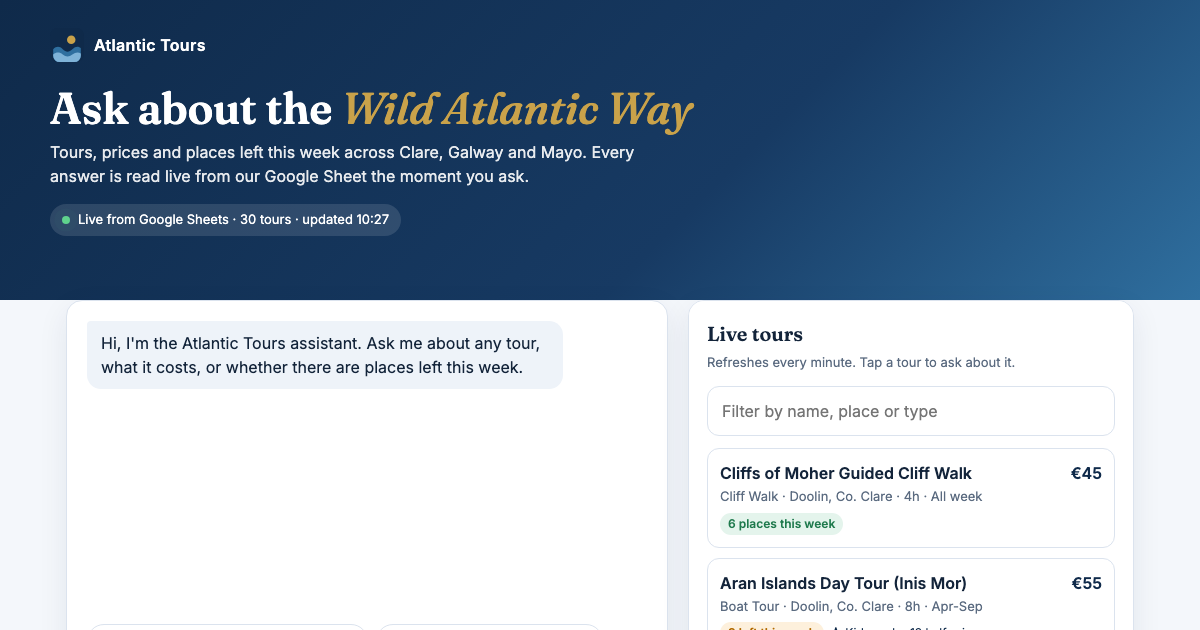
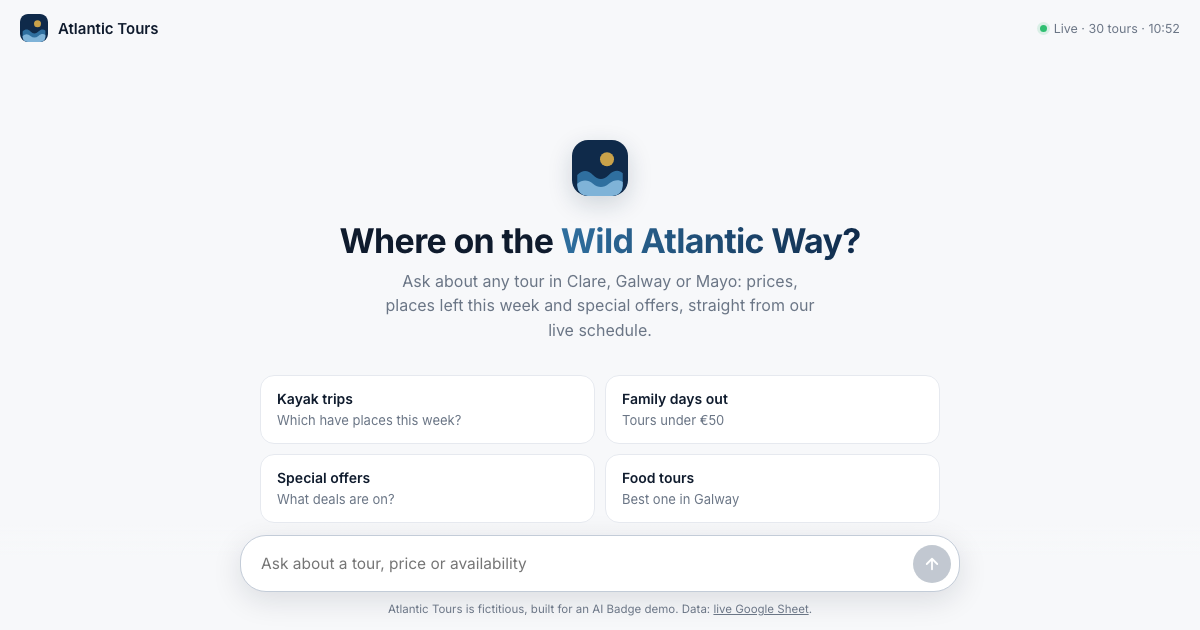
Redesign: full-height chat-only UI, suggestion cards, pill composer, formatted replies

diff --git a/index.html b/index.html
@@ -2,9 +2,10 @@
 <html lang="en">
 <head>
 <meta charset="utf-8">
-<meta name="viewport" content="width=device-width, initial-scale=1">
+<meta name="viewport" content="width=device-width, initial-scale=1, viewport-fit=cover">
 <title>Atlantic Tours Assistant</title>
 <meta name="description" content="Ask about tours along Ireland's Wild Atlantic Way. Answers come live from the Atlantic Tours Google Sheet.">
+<meta name="theme-color" content="#f7f8fa">
 <meta property="og:type" content="website">
 <meta property="og:title" content="Atlantic Tours Assistant">
 <meta property="og:description" content="A chatbot with live access to the Atlantic Tours Google Sheet: prices, availability and offers along Ireland's west coast.">
@@ -17,124 +18,153 @@
 <link rel="icon" href="icon.svg" type="image/svg+xml">
 <link rel="apple-touch-icon" href="icon-180.png">
 <link rel="preconnect" href="https://fonts.googleapis.com">
-<link href="https://fonts.googleapis.com/css2?family=Fraunces:ital,opsz,wght@0,9..144,600;1,9..144,500&family=Inter:wght@400;500;600&display=swap" rel="stylesheet">
+<link href="https://fonts.googleapis.com/css2?family=Inter:wght@400;500;600;700&display=swap" rel="stylesheet">
 <style>
 :root{
-  --navy:#0f2a4a; --navy-2:#173a63; --sea:#2f6f9f; --ink:#13243a; --muted:#5b6b80;
-  --bg:#f4f7fb; --card:#ffffff; --line:#dbe3ee; --gold:#c9a24a;
-  --ok:#1f7a4d; --low:#b26a00; --full:#b3261e;
+  --bg:#f7f8fa; --surface:#ffffff; --ink:#0f1b2d; --muted:#6b7686; --line:#e6e9ef;
+  --navy:#0f2a4a; --sea:#2f6f9f; --gold:#c9a24a; --user:#0f2a4a;
 }
 *{box-sizing:border-box}
-html,body{margin:0}
-body{font-family:Inter,system-ui,sans-serif;color:var(--ink);background:var(--bg);line-height:1.5}
-header{background:linear-gradient(135deg,var(--navy),var(--navy-2) 60%,var(--sea));color:#fff;padding:28px 16px 64px}
-.wrap{max-width:1100px;margin:0 auto}
-.brand{display:flex;align-items:center;gap:10px;font-weight:600;letter-spacing:.02em}
-.brand img{width:34px;height:34px}
-h1{font-family:Fraunces,Georgia,serif;font-weight:600;font-size:clamp(28px,5vw,44px);line-height:1.1;margin:22px 0 8px}
-h1 em{color:var(--gold);font-weight:500}
-.lede{max-width:620px;opacity:.9;margin:0}
-.live{display:inline-flex;align-items:center;gap:8px;margin-top:16px;padding:6px 12px;border-radius:999px;background:rgba(255,255,255,.12);font-size:13px}
-.dot{width:8px;height:8px;border-radius:50%;background:#5fd38d;box-shadow:0 0 0 0 rgba(95,211,141,.7);animation:pulse 2s infinite}
-.dot.err{background:#ff8a80;animation:none}
-@keyframes pulse{70%{box-shadow:0 0 0 8px rgba(95,211,141,0)}100%{box-shadow:0 0 0 0 rgba(95,211,141,0)}}
-main{margin-top:-40px;padding:0 16px 40px}
-.grid{display:grid;grid-template-columns:minmax(0,1.35fr) minmax(0,1fr);gap:20px}
-@media (max-width:860px){.grid{grid-template-columns:1fr}}
-.panel{background:var(--card);border:1px solid var(--line);border-radius:16px;box-shadow:0 10px 30px rgba(15,42,74,.08)}
-.chat{display:flex;flex-direction:column;height:min(640px,78vh)}
-.log{flex:1;overflow-y:auto;padding:20px;display:flex;flex-direction:column;gap:12px}
-.msg{max-width:85%;padding:10px 14px;border-radius:14px;white-space:pre-wrap;word-wrap:break-word}
-.bot{background:#eef3f9;border-top-left-radius:4px;align-self:flex-start}
-.me{background:var(--navy);color:#fff;border-top-right-radius:4px;align-self:flex-end}
-.typing{color:var(--muted);font-style:italic}
-.chips{display:flex;flex-wrap:wrap;gap:8px;padding:0 20px 12px}
-.chip{border:1px solid var(--line);background:#fff;color:var(--navy);border-radius:999px;padding:6px 12px;font:inherit;font-size:13px;cursor:pointer}
-.chip:hover{border-color:var(--sea)}
-form{display:flex;gap:10px;padding:14px;border-top:1px solid var(--line)}
-input{flex:1;min-width:0;font:inherit;padding:12px 14px;border:1px solid var(--line);border-radius:12px;outline:none}
-input:focus{border-color:var(--sea);box-shadow:0 0 0 3px rgba(47,111,159,.15)}
-button.send{font:inherit;font-weight:600;background:var(--navy);color:#fff;border:0;border-radius:12px;padding:0 18px;cursor:pointer}
-button.send:disabled{opacity:.5;cursor:default}
-.tours{padding:18px 18px 8px;max-height:min(640px,78vh);overflow-y:auto}
-.tours h2{font-family:Fraunces,Georgia,serif;font-size:20px;margin:0 0 4px}
-.sub{color:var(--muted);font-size:13px;margin:0 0 14px}
-.filter{width:100%;margin-bottom:12px}
-.tour{border:1px solid var(--line);border-radius:12px;padding:12px;margin-bottom:10px;cursor:pointer;transition:border-color .15s}
-.tour:hover{border-color:var(--sea)}
-.t-top{display:flex;justify-content:space-between;gap:10px;align-items:baseline}
-.t-name{font-weight:600}
-.t-price{font-weight:600;color:var(--navy);white-space:nowrap}
-.t-meta{color:var(--muted);font-size:13px;margin-top:2px}
-.badge{display:inline-block;font-size:12px;font-weight:600;padding:2px 8px;border-radius:999px;margin-top:6px}
-.ok{background:#e4f4ec;color:var(--ok)} .low{background:#fdf0dc;color:var(--low)} .full{background:#fbe4e2;color:var(--full)}
-.offer{font-size:12px;color:var(--navy);margin-left:6px}
-footer{text-align:center;color:var(--muted);font-size:13px;padding:0 16px 30px}
-footer a{color:var(--sea)}
+html,body{margin:0;height:100%}
+body{font-family:Inter,system-ui,-apple-system,sans-serif;color:var(--ink);background:var(--bg);
+  -webkit-font-smoothing:antialiased;display:flex;flex-direction:column;height:100dvh}
+
+/* top bar */
+.top{position:sticky;top:0;z-index:5;display:flex;align-items:center;justify-content:space-between;
+  padding:14px 20px;background:rgba(247,248,250,.8);backdrop-filter:blur(14px);-webkit-backdrop-filter:blur(14px)}
+.brand{display:flex;align-items:center;gap:10px;font-weight:600;font-size:15px}
+.brand img{width:28px;height:28px;border-radius:8px}
+.live{display:flex;align-items:center;gap:7px;font-size:12.5px;color:var(--muted)}
+.dot{width:7px;height:7px;border-radius:50%;background:#2fbf71;box-shadow:0 0 0 3px rgba(47,191,113,.15)}
+.dot.err{background:#e5484d;box-shadow:0 0 0 3px rgba(229,72,77,.15)}
+.new{border:1px solid var(--line);background:var(--surface);color:var(--ink);font:inherit;font-size:13px;
+  padding:7px 12px;border-radius:999px;cursor:pointer;margin-left:12px}
+.new:hover{border-color:#cfd5de}
+.right{display:flex;align-items:center}
+
+/* conversation */
+.scroll{flex:1;overflow-y:auto;scroll-behavior:smooth}
+.col{max-width:720px;margin:0 auto;padding:8px 20px 24px}
+
+.hello{padding:12vh 0 0;text-align:center;animation:rise .5s ease both}
+.hello img{width:56px;height:56px;border-radius:16px;box-shadow:0 8px 24px rgba(15,42,74,.18)}
+.hello h1{font-size:clamp(26px,4.5vw,34px);letter-spacing:-.02em;margin:20px 0 8px;font-weight:700}
+.hello h1 span{background:linear-gradient(90deg,var(--sea),var(--navy));-webkit-background-clip:text;background-clip:text;color:transparent}
+.hello p{color:var(--muted);margin:0 auto;max-width:440px;line-height:1.55}
+.cards{display:grid;grid-template-columns:1fr 1fr;gap:10px;margin:32px 0 0;text-align:left}
+@media (max-width:560px){.cards{grid-template-columns:1fr;margin-top:24px}.hello{padding-top:5vh}}
+.card{background:var(--surface);border:1px solid var(--line);border-radius:14px;padding:14px 16px;cursor:pointer;
+  font:inherit;text-align:left;color:var(--ink);transition:border-color .15s,transform .15s,box-shadow .15s}
+.card:hover{border-color:#cfd5de;transform:translateY(-1px);box-shadow:0 6px 18px rgba(15,27,45,.06)}
+.card b{display:block;font-size:14px;font-weight:600;margin-bottom:2px}
+.card small{color:var(--muted);font-size:13px}
+
+.row{display:flex;gap:12px;margin:22px 0;animation:rise .25s ease both}
+.row.me{justify-content:flex-end}
+.av{flex:0 0 30px;height:30px;border-radius:9px;overflow:hidden;margin-top:2px}
+.av img{width:100%;height:100%}
+.bubble{line-height:1.6;font-size:15.5px;word-wrap:break-word;min-width:0}
+.me .bubble{background:var(--user);color:#fff;padding:10px 16px;border-radius:20px 20px 6px 20px;max-width:80%;white-space:pre-wrap}
+.bot .bubble{padding-top:4px;flex:1}
+.bot .bubble p{margin:0 0 10px} .bot .bubble p:last-child{margin:0}
+.bot .bubble ul{margin:6px 0 10px;padding-left:20px} .bot .bubble li{margin:3px 0}
+.dots{display:inline-flex;gap:5px;padding:10px 0}
+.dots i{width:7px;height:7px;border-radius:50%;background:#aab3c0;animation:blink 1.2s infinite}
+.dots i:nth-child(2){animation-delay:.15s} .dots i:nth-child(3){animation-delay:.3s}
+@keyframes blink{0%,80%,100%{opacity:.3;transform:translateY(0)}40%{opacity:1;transform:translateY(-3px)}}
+@keyframes rise{from{opacity:0;transform:translateY(8px)}to{opacity:1;transform:none}}
+
+/* composer */
+.dock{padding:10px 20px calc(14px + env(safe-area-inset-bottom));background:linear-gradient(to top,var(--bg) 70%,transparent)}
+form{max-width:720px;margin:0 auto;display:flex;align-items:flex-end;gap:8px;background:var(--surface);
+  border:1px solid var(--line);border-radius:26px;padding:8px 8px 8px 20px;box-shadow:0 8px 30px rgba(15,27,45,.08);transition:border-color .15s,box-shadow .15s}
+form:focus-within{border-color:#c3ccd8;box-shadow:0 8px 30px rgba(15,27,45,.12)}
+textarea{flex:1;border:0;outline:0;resize:none;font:inherit;font-size:15.5px;line-height:1.5;padding:8px 0;max-height:160px;background:transparent;color:var(--ink)}
+.send{flex:0 0 38px;height:38px;border-radius:50%;border:0;background:var(--navy);color:#fff;cursor:pointer;display:grid;place-items:center;transition:opacity .15s,transform .15s}
+.send:hover{transform:scale(1.05)}
+.send:disabled{opacity:.25;cursor:default;transform:none}
+.fine{text-align:center;color:var(--muted);font-size:11.5px;margin:10px 0 0}
+.fine a{color:inherit}
 </style>
 </head>
 <body>
-<header>
-  <div class="wrap">
-    <div class="brand"><img src="icon.svg" alt="">Atlantic Tours</div>
-    <h1>Ask about the <em>Wild Atlantic Way</em></h1>
-    <p class="lede">Tours, prices and places left this week across Clare, Galway and Mayo. Every answer is read live from our Google Sheet the moment you ask.</p>
-    <div class="live"><span class="dot" id="dot"></span><span id="status">Connecting to the live sheet...</span></div>
+<header class="top">
+  <div class="brand"><img src="icon.svg" alt="">Atlantic Tours</div>
+  <div class="right">
+    <div class="live" title="Answers are read from the Google Sheet each time you ask"><span class="dot" id="dot"></span><span id="status">Connecting...</span></div>
+    <button class="new" id="reset" hidden>New chat</button>
   </div>
 </header>
 
-<main class="wrap">
-  <div class="grid">
-    <section class="panel chat" aria-label="Chat">
-      <div class="log" id="log" aria-live="polite"></div>
-      <div class="chips" id="chips">
-        <button class="chip">Which kayak trips have places this week?</button>
-        <button class="chip">Family-friendly tours under €50?</button>
-        <button class="chip">What special offers are on?</button>
-        <button class="chip">Best food tour in Galway?</button>
+<div class="scroll" id="scroll">
+  <div class="col" id="col">
+    <section class="hello" id="hello">
+      <img src="icon.svg" alt="">
+      <h1>Where on the <span>Wild Atlantic Way?</span></h1>
+      <p>Ask about any tour in Clare, Galway or Mayo: prices, places left this week and special offers, straight from our live schedule.</p>
+      <div class="cards">
+        <button class="card" data-q="Which kayak trips have places this week?"><b>Kayak trips</b><small>Which have places this week?</small></button>
+        <button class="card" data-q="What family-friendly tours are under €50?"><b>Family days out</b><small>Tours under €50</small></button>
+        <button class="card" data-q="What special offers are on right now?"><b>Special offers</b><small>What deals are on?</small></button>
+        <button class="card" data-q="What's the best food tour in Galway?"><b>Food tours</b><small>Best one in Galway</small></button>
       </div>
-      <form id="form">
-        <input id="q" autocomplete="off" placeholder="Ask about a tour, price or availability..." aria-label="Your question">
-        <button class="send" id="send">Send</button>
-      </form>
     </section>
-
-    <aside class="panel tours" aria-label="Live tours">
-      <h2>Live tours</h2>
-      <p class="sub" id="toursub">Loading from Google Sheets...</p>
-      <input class="filter" id="filter" placeholder="Filter by name, place or type">
-      <div id="list"></div>
-    </aside>
   </div>
-</main>
+</div>
 
-<footer>Atlantic Tours is a fictitious tour operator for an AI Badge demo. Data: <a href="https://docs.google.com/spreadsheets/d/1balBGf8QhZ5dc-RCCAPt2kcrcf6m_YRh0HL_r8bBtJw/edit" target="_blank" rel="noopener">the live Google Sheet</a>.</footer>
+<div class="dock">
+  <form id="form">
+    <textarea id="q" rows="1" placeholder="Ask about a tour, price or availability" aria-label="Message"></textarea>
+    <button class="send" id="send" aria-label="Send" disabled>
+      <svg width="18" height="18" viewBox="0 0 24 24" fill="none" stroke="currentColor" stroke-width="2.4" stroke-linecap="round" stroke-linejoin="round"><path d="M12 19V5M5 12l7-7 7 7"/></svg>
+    </button>
+  </form>
+  <p class="fine">Atlantic Tours is fictitious, built for an AI Badge demo. Data: <a href="https://docs.google.com/spreadsheets/d/1balBGf8QhZ5dc-RCCAPt2kcrcf6m_YRh0HL_r8bBtJw/edit" target="_blank" rel="noopener">live Google Sheet</a>.</p>
+</div>
 
 <script>
 const API = "https://atlantic-tours-bot.victordelrosal.workers.dev";
-const log = document.getElementById("log"), form = document.getElementById("form"),
-      q = document.getElementById("q"), send = document.getElementById("send");
-const history = [];
-let tours = [];
+const $ = id => document.getElementById(id);
+const col = $("col"), scroll = $("scroll"), q = $("q"), send = $("send"), hello = $("hello");
+let history = [], busy = false;
 
-function add(role, text, cls) {
-  const d = document.createElement("div");
-  d.className = "msg " + (role === "user" ? "me" : "bot") + (cls ? " " + cls : "");
-  d.textContent = text;
-  log.appendChild(d);
-  log.scrollTop = log.scrollHeight;
-  return d;
+function esc(s) { return s.replace(/[&<>"]/g, c => ({ "&": "&amp;", "<": "&lt;", ">": "&gt;", '"': "&quot;" }[c])); }
+
+// Light formatting for bot replies: paragraphs, "-" bullet lists, **bold**.
+function format(text) {
+  const out = []; let list = null;
+  for (const raw of text.split("\n")) {
+    const line = raw.trim();
+    const m = line.match(/^[-*•]\s+(.*)/);
+    if (m) { (list ||= []).push(`<li>${inline(m[1])}</li>`); continue; }
+    if (list) { out.push(`<ul>${list.join("")}</ul>`); list = null; }
+    if (line) out.push(`<p>${inline(line)}</p>`);
+  }
+  if (list) out.push(`<ul>${list.join("")}</ul>`);
+  return out.join("");
 }
+function inline(s) { return esc(s).replace(/\*\*(.+?)\*\*/g, "<b>$1</b>"); }
 
-add("assistant", "Hi, I'm the Atlantic Tours assistant. Ask me about any tour, what it costs, or whether there are places left this week.");
+function addRow(role, html) {
+  const row = document.createElement("div");
+  row.className = "row " + (role === "user" ? "me" : "bot");
+  row.innerHTML = role === "user"
+    ? `<div class="bubble"></div>`
+    : `<div class="av"><img src="icon.svg" alt=""></div><div class="bubble">${html}</div>`;
+  if (role === "user") row.querySelector(".bubble").textContent = html;
+  col.appendChild(row);
+  scroll.scrollTop = scroll.scrollHeight;
+  return row.querySelector(".bubble");
+}
 
 async function ask(text) {
   text = text.trim();
-  if (!text) return;
-  add("user", text);
+  if (!text || busy) return;
+  busy = true; hello.remove(); $("reset").hidden = false;
+  addRow("user", text);
   history.push({ role: "user", content: text });
-  q.value = ""; send.disabled = true;
-  const t = add("assistant", "Checking the live sheet...", "typing");
+  q.value = ""; grow(); send.disabled = true;
+  const b = addRow("assistant", `<span class="dots"><i></i><i></i><i></i></span>`);
   try {
     const r = await fetch(API + "/chat", {
       method: "POST", headers: { "content-type": "application/json" },
@@ -142,64 +172,35 @@ async function ask(text) {
     });
     const d = await r.json();
     if (!r.ok) throw new Error(d.error || "error");
-    t.className = "msg bot"; t.textContent = d.reply;
+    b.innerHTML = format(d.reply);
     history.push({ role: "assistant", content: d.reply });
   } catch (e) {
-    t.className = "msg bot"; t.textContent = "Sorry, I couldn't reach the tour data just now. Please try again in a moment.";
+    b.innerHTML = `<p>Sorry, I couldn't reach the tour schedule just now. Please try again in a moment.</p>`;
     history.pop();
   }
-  send.disabled = false; q.focus();
+  scroll.scrollTop = scroll.scrollHeight;
+  busy = false; q.focus();
 }
 
-form.addEventListener("submit", e => { e.preventDefault(); ask(q.value); });
-document.getElementById("chips").addEventListener("click", e => {
-  if (e.target.classList.contains("chip")) ask(e.target.textContent);
-});
+function grow() { q.style.height = "auto"; q.style.height = q.scrollHeight + "px"; send.disabled = !q.value.trim() || busy; }
+q.addEventListener("input", grow);
+q.addEventListener("keydown", e => { if (e.key === "Enter" && !e.shiftKey) { e.preventDefault(); ask(q.value); } });
+$("form").addEventListener("submit", e => { e.preventDefault(); ask(q.value); });
+document.querySelectorAll(".card").forEach(c => c.addEventListener("click", () => ask(c.dataset.q)));
+$("reset").addEventListener("click", () => location.reload());
 
-function money(v) {
-  const n = Number(v);
-  return isFinite(n) ? "€" + n.toLocaleString("en-IE") : v;
-}
-
-function render() {
-  const f = document.getElementById("filter").value.toLowerCase();
-  const list = document.getElementById("list");
-  list.innerHTML = "";
-  tours.filter(t => !f || [t.tour_name, t.location, t.category].join(" ").toLowerCase().includes(f))
-    .forEach(t => {
-      const s = Number(t.slots_this_week);
-      const [cls, label] = s === 0 ? ["full", "Fully booked this week"] : s <= 4 ? ["low", s + " left this week"] : ["ok", s + " places this week"];
-      const el = document.createElement("div");
-      el.className = "tour";
-      el.innerHTML = `<div class="t-top"><span class="t-name"></span><span class="t-price"></span></div>
-        <div class="t-meta"></div><span class="badge ${cls}">${label}</span><span class="offer"></span>`;
-      el.querySelector(".t-name").textContent = t.tour_name;
-      el.querySelector(".t-price").textContent = money(t.price_eur);
-      el.querySelector(".t-meta").textContent = `${t.category} · ${t.location} · ${t.duration_hours}h · ${t.availability}`;
-      if (t.special_offer) el.querySelector(".offer").textContent = "★ " + t.special_offer;
-      el.addEventListener("click", () => ask(`Tell me about ${t.tour_name}`));
-      list.appendChild(el);
-    });
-}
-document.getElementById("filter").addEventListener("input", render);
-
-async function loadTours() {
+async function ping() {
   try {
     const r = await fetch(API + "/tours");
     const d = await r.json();
-    if (!r.ok) throw new Error(d.error);
-    tours = d.rows; render();
-    const time = new Date(d.fetchedAt).toLocaleTimeString("en-IE", { hour: "2-digit", minute: "2-digit" });
-    document.getElementById("status").textContent = `Live from Google Sheets · ${tours.length} tours · updated ${time}`;
-    document.getElementById("toursub").textContent = `Refreshes every minute. Tap a tour to ask about it.`;
-    document.getElementById("dot").className = "dot";
-  } catch (e) {
-    document.getElementById("status").textContent = "Live sheet unreachable, retrying...";
-    document.getElementById("dot").className = "dot err";
-  }
+    if (!r.ok) throw 0;
+    const t = new Date(d.fetchedAt).toLocaleTimeString("en-IE", { hour: "2-digit", minute: "2-digit" });
+    $("status").textContent = `Live · ${d.rows.length} tours · ${t}`;
+    $("dot").className = "dot";
+  } catch { $("status").textContent = "Schedule offline"; $("dot").className = "dot err"; }
 }
-loadTours();
-setInterval(loadTours, 60000);
+ping(); setInterval(ping, 60000);
+q.focus();
 </script>
 </body>
 </html>
